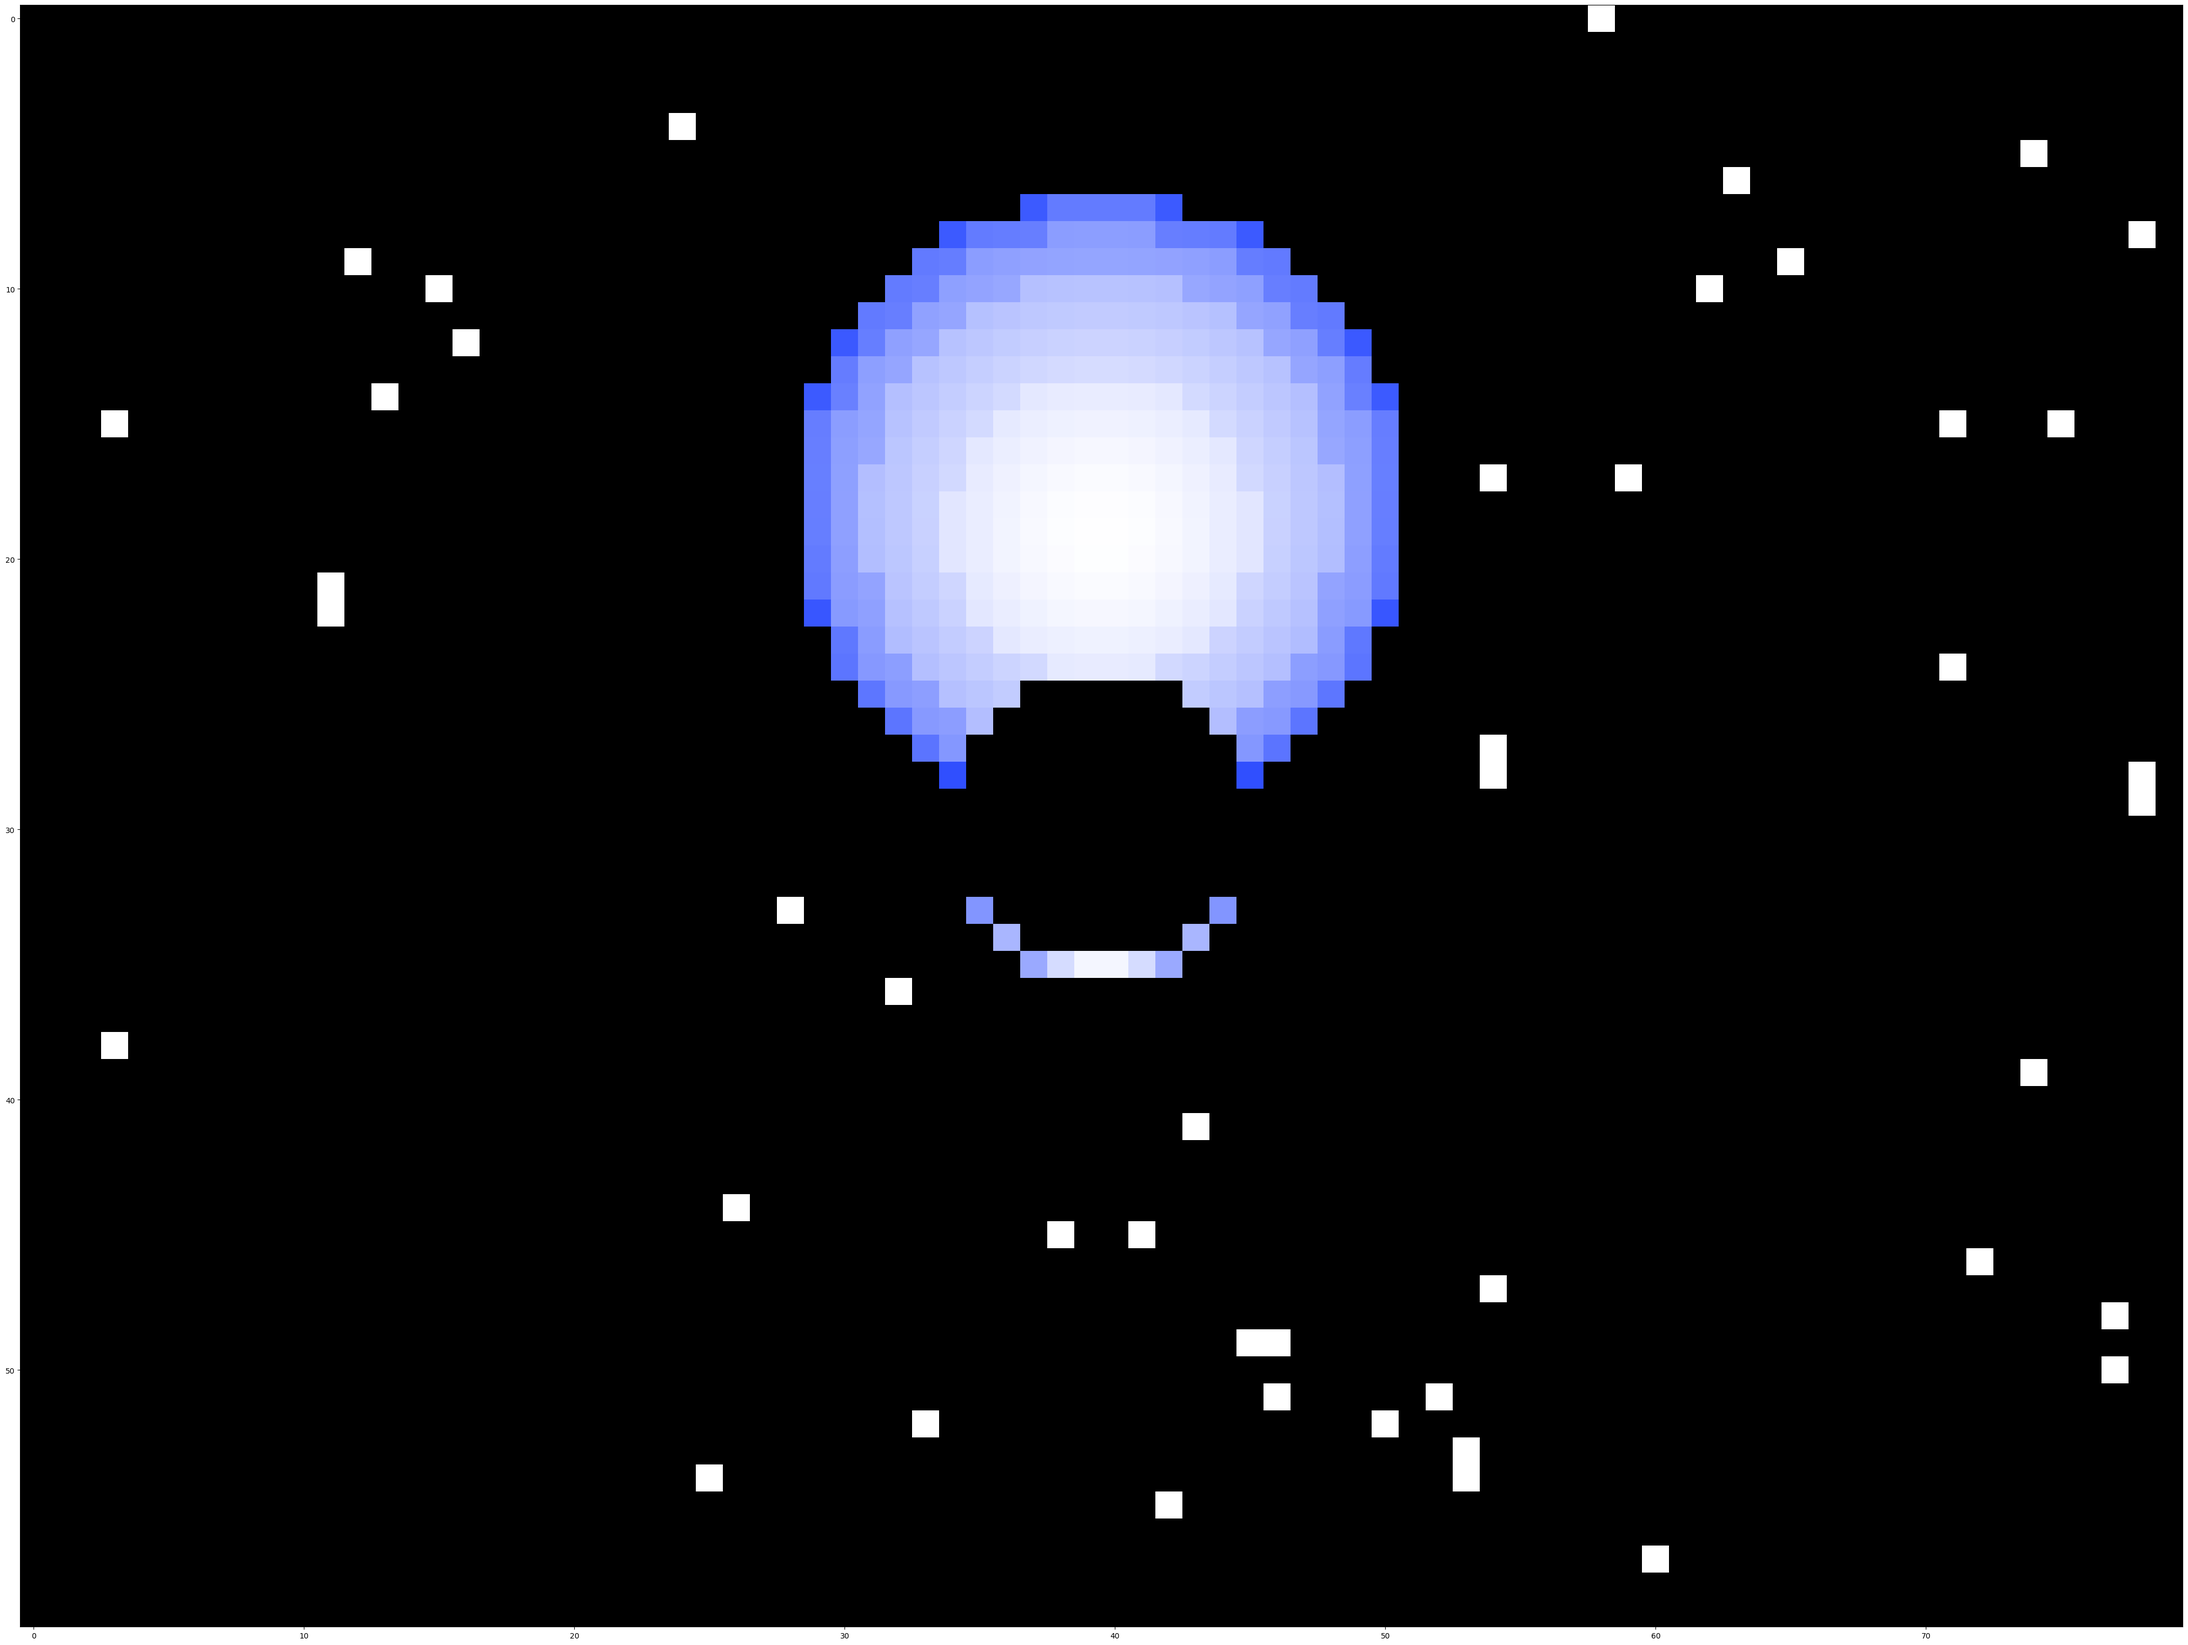
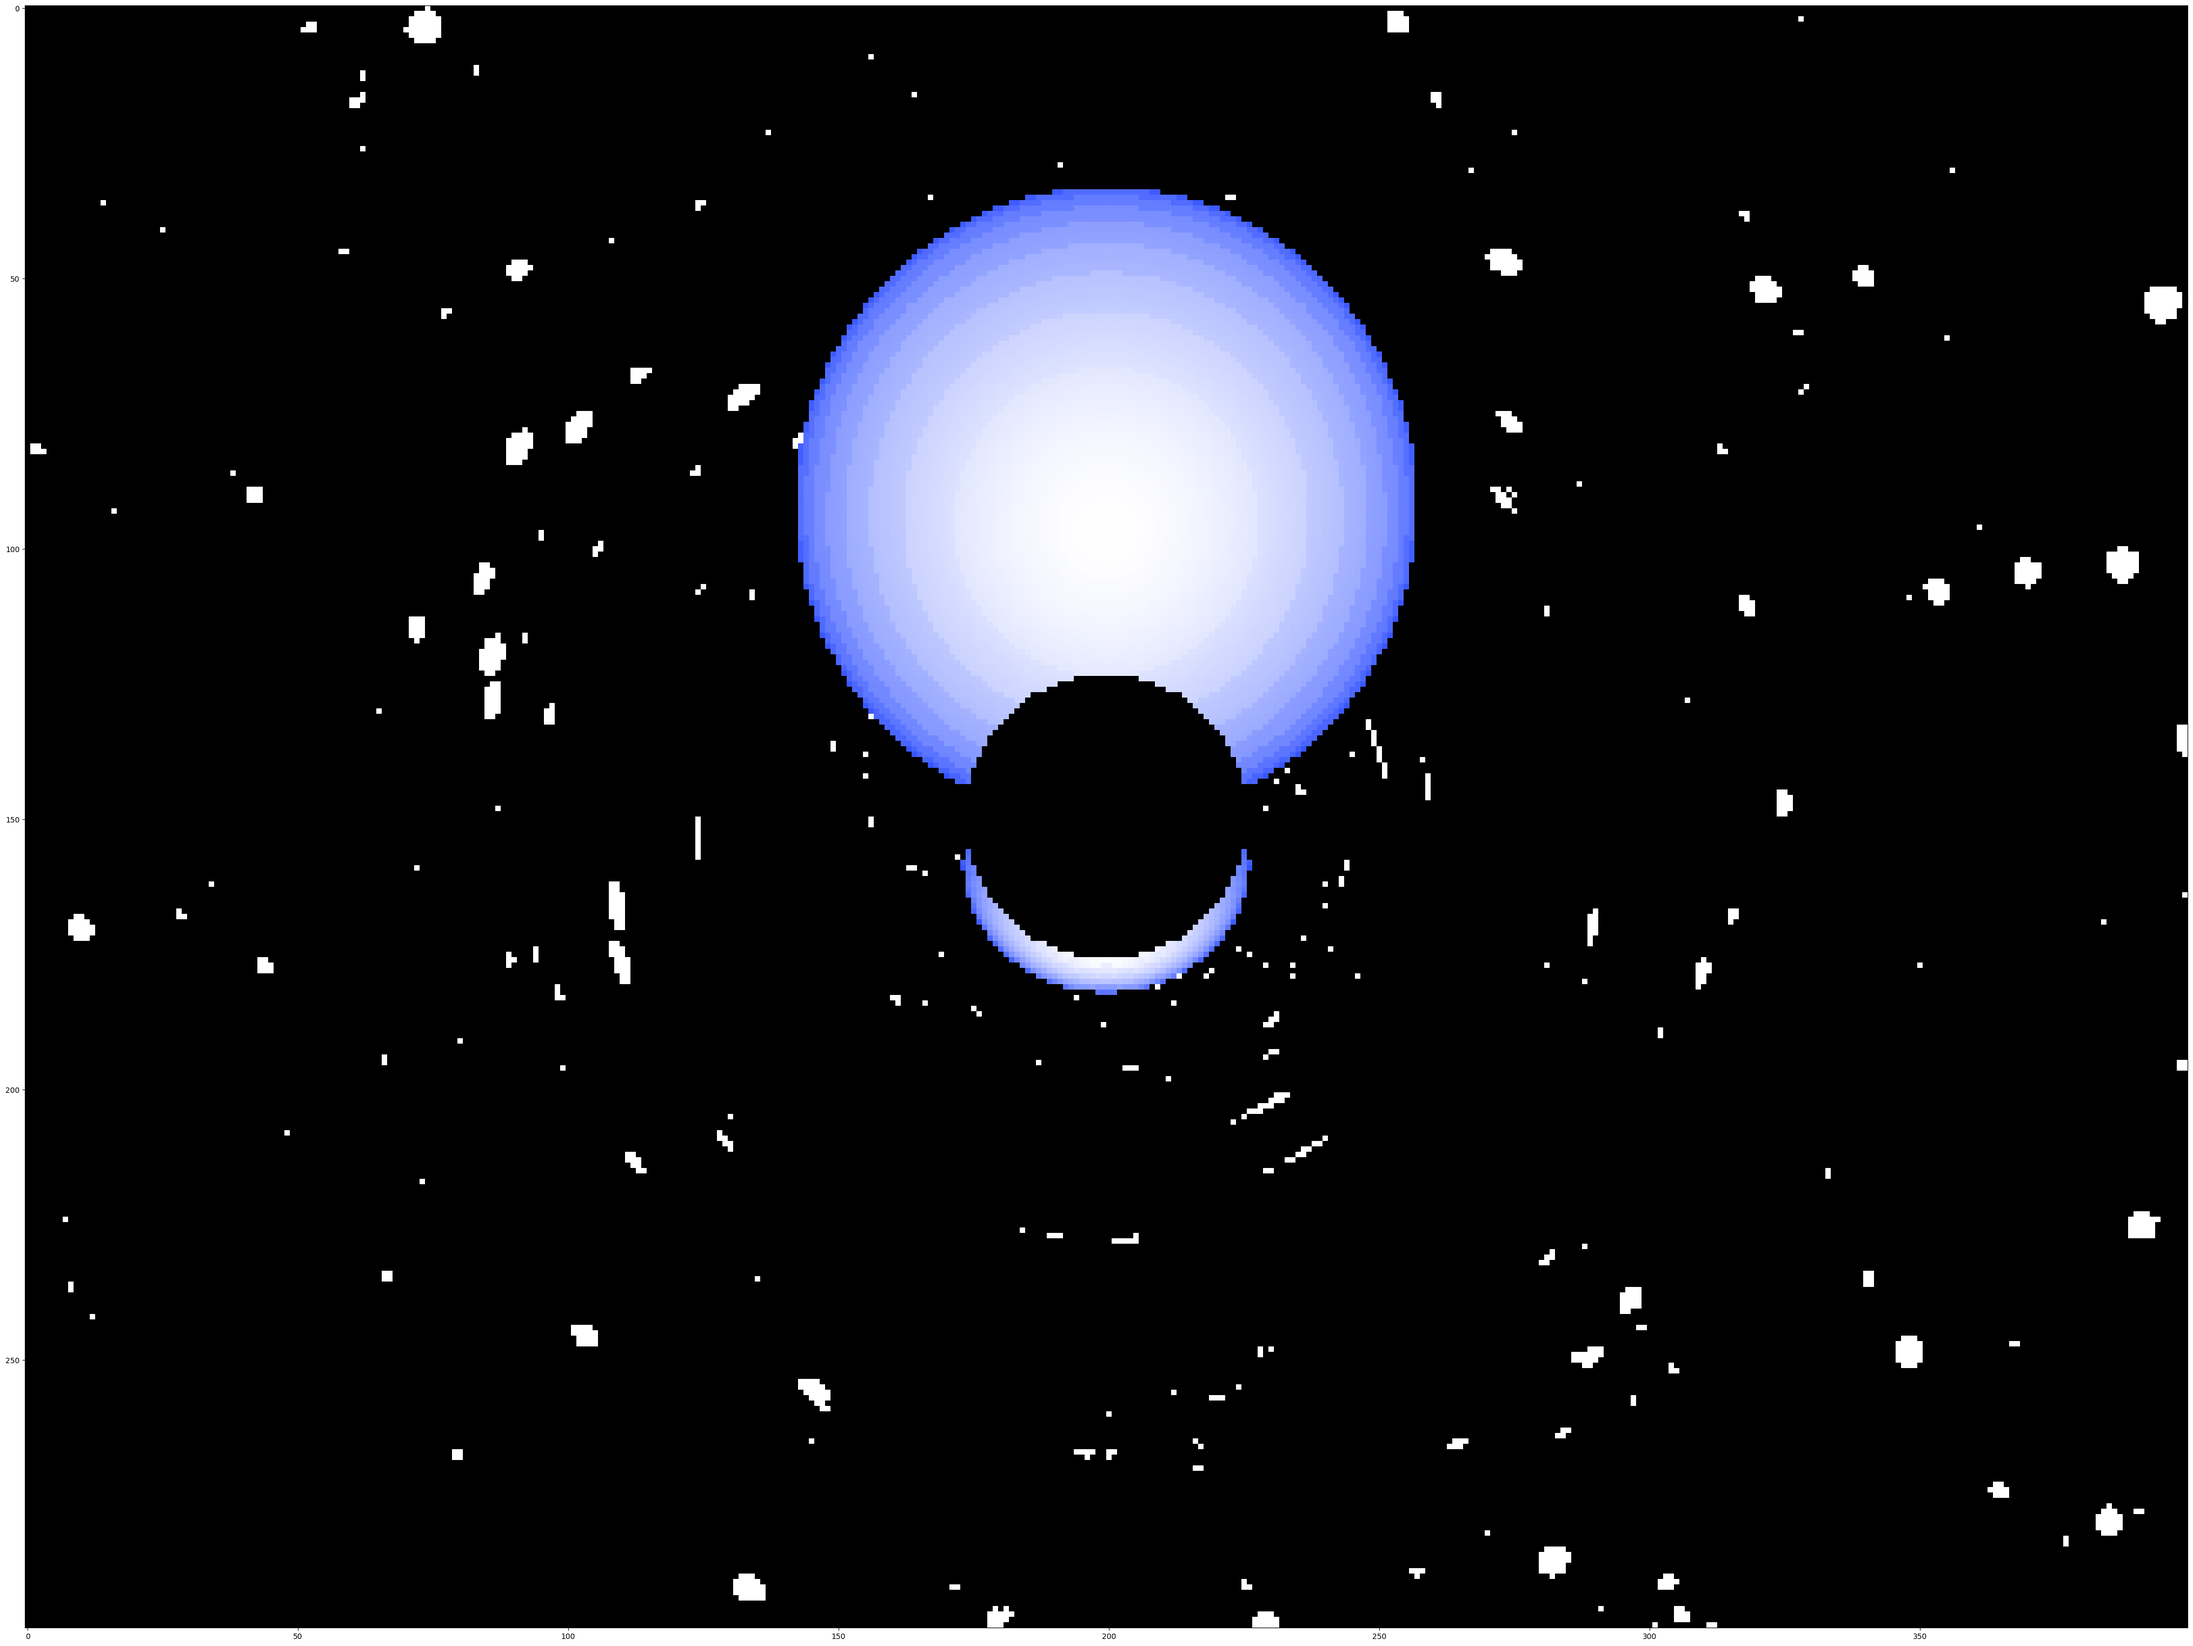
update images

diff --git a/BH3D_render.py b/BH3D_render.py
@@ -114,7 +114,7 @@ def interpolate_array(array, new_size):
 
 # Initial conditions
 box_size = 20*rs
-image_width, image_height = 400,300
+image_width, image_height = 800,600
 
 pixel_to_unit = 0.01 / image_width
 pixely_arr = np.linspace(-image_width / 2, image_width / 2, image_width)
@@ -268,7 +268,8 @@ star_mask = np.any(hit_star_all,axis=-1)
 
 print("Step 3: Stars hit cleared")
 
-plt.figure(figsize=(40,30))
+fig = plt.figure(figsize=(14.5,9))
+ax = fig.gca()
 
 final_color = np.zeros((image_width,image_height,3))
 NS_color_dark     = np.array([60, 90, 255])/255
@@ -281,10 +282,17 @@ final_color = NS_color_bright * NS_intensity[...,None] * NS_mask[...,None] \
             + star_color * star_mask[...,None] * sky_mask[...,None] 
 
 image = np.transpose(final_color, (1, 0, 2))
-plt.imshow(np.clip(image, 0, 1))
+ax.imshow(np.clip(image, 0, 1))
+ax.set_xticks([])
+ax.set_yticks([])
+ax.set_xticklabels([])
+ax.set_yticklabels([])
+ax.set_title('')
+ax.axis('off')
 plt.subplots_adjust(left=0, right=1, top=1, bottom=0, wspace=0, hspace=0)
+import os
+fig.savefig(os.getcwd()+"/bh3d_local.png",bbox_inches='tight',pad_inches=0)
 
-plt.savefig("bh3d.png",bbox_inches='tight')
 print("Step 4: Image saved")
 end_time = time.time()
 print("time elapsed %f sec" % (end_time - start_time))
